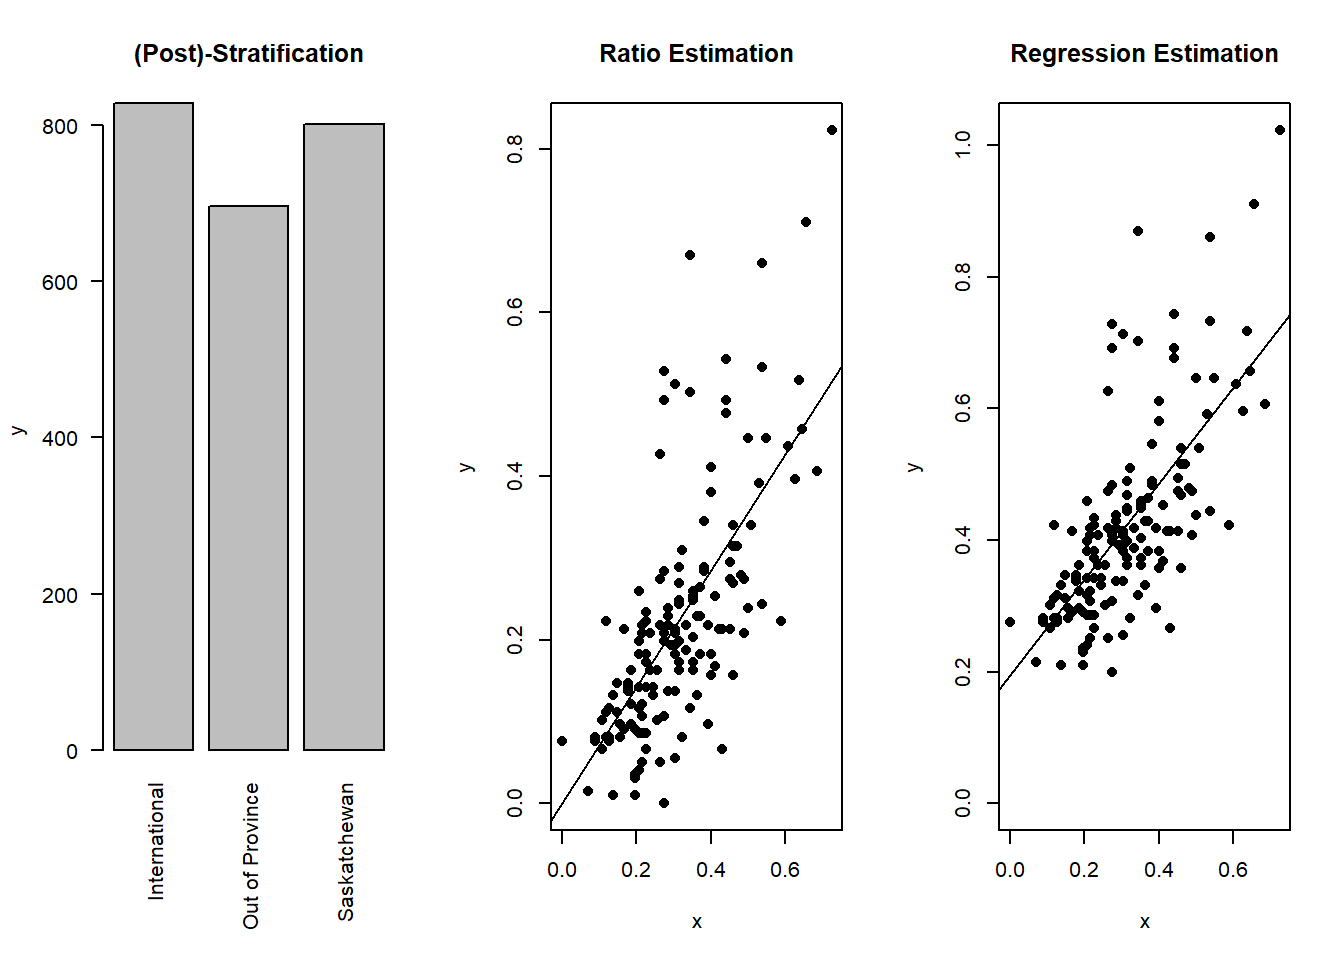
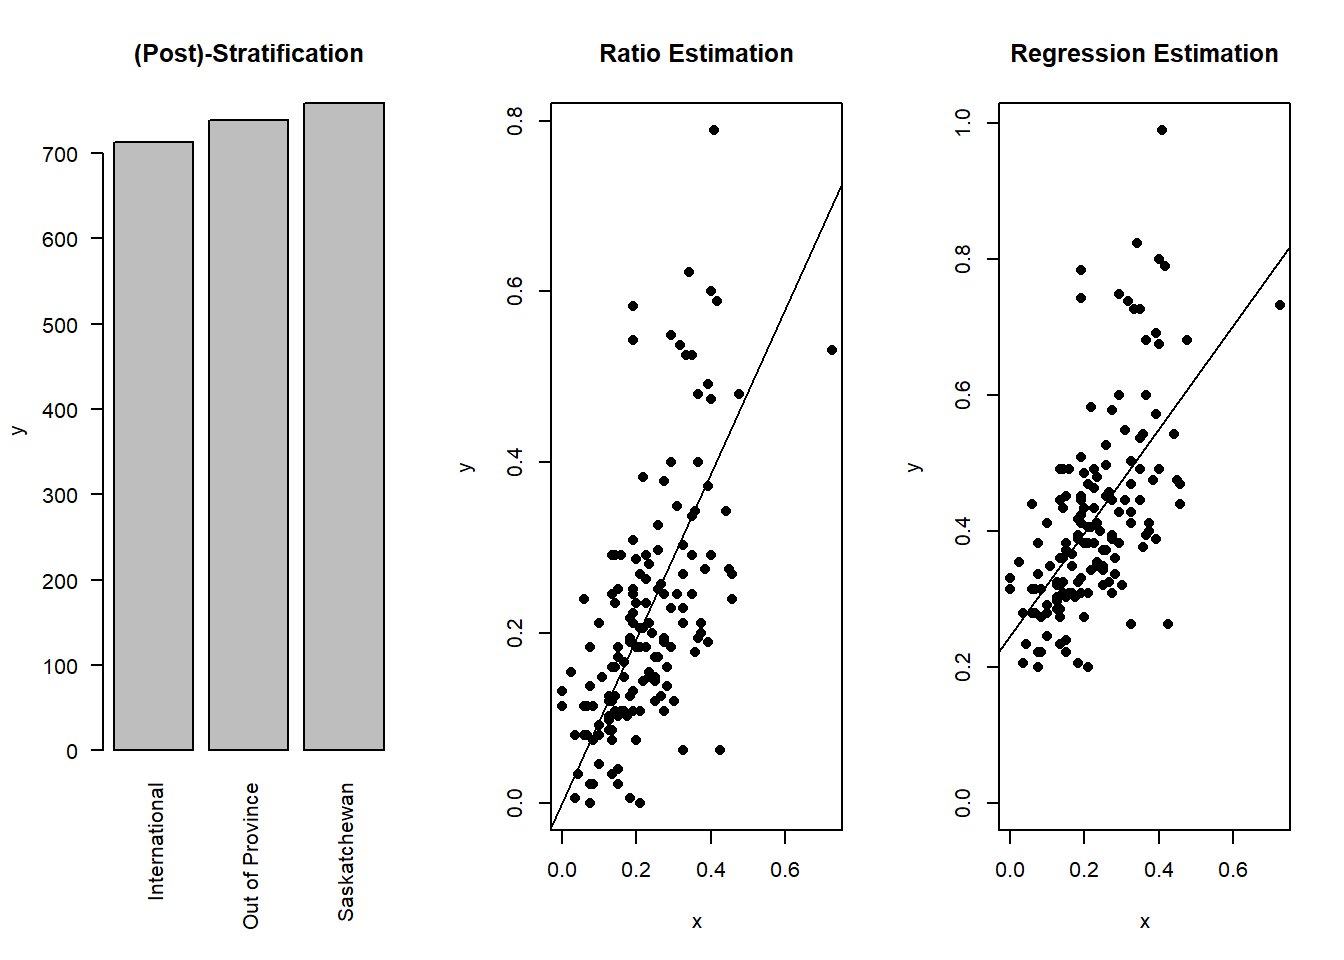
minor update

diff --git a/chap-rr.html b/chap-rr.html
@@ -22,7 +22,7 @@
 
 
 
-<meta name="date" content="2026-04-23" />
+<meta name="date" content="2026-05-12" />
 
   <meta name="viewport" content="width=device-width, initial-scale=1" />
   <meta name="apple-mobile-web-app-capable" content="yes" />
@@ -1212,10 +1212,10 @@ As expected, we achieve a whooping amount of 97.0795% gain in efficiency by usin
 ##     design = design.srs)
 ## Ratios=
 ##          area
-## rent 26.30597
+## rent 24.97163
 ## SEs=
-##          area
-## rent 0.577119</code></pre>
+##           area
+## rent 0.5517693</code></pre>
 <p>We can obtain <span class="math inline">\(\widehat{T}_r\)</span> using the following code</p>
 <div class="sourceCode" id="cb28"><pre class="sourceCode r"><code class="sourceCode r"><span id="cb28-1"><a href="chap-rr.html#cb28-1" tabindex="-1"></a><span class="co">#suppose we know the population total t_{U,x}</span></span>
 <span id="cb28-2"><a href="chap-rr.html#cb28-2" tabindex="-1"></a>known.x.total <span class="ot">&lt;-</span> <span class="fu">sum</span>(dat<span class="sc">$</span>area)</span>
@@ -1224,11 +1224,11 @@ As expected, we achieve a whooping amount of 97.0795% gain in efficiency by usin
 <span id="cb28-5"><a href="chap-rr.html#cb28-5" tabindex="-1"></a><span class="fu">predict</span>(srs.ratio,<span class="at">total=</span>known.x.total)</span></code></pre></div>
 <pre><code>## $total
 ##          area
-## rent 21380279
+## rent 20295789
 ## 
 ## $se
 ##          area
-## rent 469055.7</code></pre>
+## rent 448452.7</code></pre>
 </div>
 </div>
 <div id="post-stratification" class="section level2 hasAnchor" number="4.3">
@@ -1337,12 +1337,12 @@ Figure 4.3: Post-stratification to adjust sample so that it represents the popul
 <span id="cb30-8"><a href="chap-rr.html#cb30-8" tabindex="-1"></a></span>
 <span id="cb30-9"><a href="chap-rr.html#cb30-9" tabindex="-1"></a><span class="co">#use the new survey design to estimate mean</span></span>
 <span id="cb30-10"><a href="chap-rr.html#cb30-10" tabindex="-1"></a><span class="fu">svymean</span>(<span class="sc">~</span>rent, design.post)</span></code></pre></div>
-<pre><code>##        mean    SE
-## rent 780.54 22.24</code></pre>
+<pre><code>##        mean     SE
+## rent 749.46 21.598</code></pre>
 <div class="sourceCode" id="cb32"><pre class="sourceCode r"><code class="sourceCode r"><span id="cb32-1"><a href="chap-rr.html#cb32-1" tabindex="-1"></a><span class="co">#use the new survey design to estimate total</span></span>
 <span id="cb32-2"><a href="chap-rr.html#cb32-2" tabindex="-1"></a><span class="fu">svytotal</span>(<span class="sc">~</span>rent, design.post)</span></code></pre></div>
 <pre><code>##         total     SE
-## rent 20799768 592642</code></pre>
+## rent 19971556 575542</code></pre>
 </div>
 <div id="calibration-and-raking" class="section level3 hasAnchor" number="4.3.3">
 <h3><span class="header-section-number">4.3.3</span> Calibration and Raking<a href="chap-rr.html#calibration-and-raking" class="anchor-section" aria-label="Anchor link to header"></a></h3>
@@ -1401,7 +1401,7 @@ Therefore, these adjusted weights can be called the reproducing weights.</p>
 <span id="cb34-27"><a href="chap-rr.html#cb34-27" tabindex="-1"></a><span class="co">#estimate the mean using the adjusted weights</span></span>
 <span id="cb34-28"><a href="chap-rr.html#cb34-28" tabindex="-1"></a><span class="fu">svymean</span>(<span class="sc">~</span>rent, design.cal)</span></code></pre></div>
 <pre><code>##        mean     SE
-## rent 776.69 21.607</code></pre>
+## rent 748.65 21.338</code></pre>
 <p><strong><ins>Raking:</ins></strong></p>
 <div class="sourceCode" id="cb36"><pre class="sourceCode r"><code class="sourceCode r"><span id="cb36-1"><a href="chap-rr.html#cb36-1" tabindex="-1"></a><span class="co">#get the population count for study</span></span>
 <span id="cb36-2"><a href="chap-rr.html#cb36-2" tabindex="-1"></a>Nh_study <span class="ot">&lt;-</span> <span class="fu">table</span>(<span class="at">study =</span> dat<span class="sc">$</span>study)</span>
@@ -1417,7 +1417,7 @@ Therefore, these adjusted weights can be called the reproducing weights.</p>
 <span id="cb36-12"><a href="chap-rr.html#cb36-12" tabindex="-1"></a><span class="co">#estimate the mean using the adjusted weights</span></span>
 <span id="cb36-13"><a href="chap-rr.html#cb36-13" tabindex="-1"></a><span class="fu">svymean</span>(<span class="sc">~</span>rent, design.rak)</span></code></pre></div>
 <pre><code>##        mean     SE
-## rent 776.69 21.607</code></pre>
+## rent 748.65 21.338</code></pre>
 <p>We can see that the results by <code>calibrate()</code> (with default settings) are practically the same as the results by <code>rake()</code>. In general, <code>calibrate()</code> is <strong>more general with more flexible options</strong>.</p>
 </div>
 </div>
@@ -1714,7 +1714,7 @@ S_{S,e}^2 = \frac{1}{n-1}\sum_{i\in S} e_i^2.
 <span id="cb38-8"><a href="chap-rr.html#cb38-8" tabindex="-1"></a><span class="fu">predict</span>(srs.reg, <span class="at">newdata =</span> <span class="fu">data.frame</span>(<span class="at">area =</span> known.x.mean),</span>
 <span id="cb38-9"><a href="chap-rr.html#cb38-9" tabindex="-1"></a>        <span class="at">type =</span> <span class="st">&quot;response&quot;</span>)</span></code></pre></div>
 <pre><code>##   response     SE
-## 1   803.21 17.914</code></pre>
+## 1   760.12 17.164</code></pre>
 <p>In R, we can also use more than 1 variable to do the regression prediction. Suppose I also want to use the indicator variable <code>washroom</code>, together with <code>area</code> to predict <code>rent</code>:</p>
 <div class="sourceCode" id="cb40"><pre class="sourceCode r"><code class="sourceCode r"><span id="cb40-1"><a href="chap-rr.html#cb40-1" tabindex="-1"></a><span class="co">#estimate/fit the regression</span></span>
 <span id="cb40-2"><a href="chap-rr.html#cb40-2" tabindex="-1"></a>srs.reg2 <span class="ot">&lt;-</span> <span class="fu">svyglm</span>(rent<span class="sc">~</span>area<span class="sc">+</span>washroom, <span class="at">design =</span> design.srs)</span>
@@ -1728,8 +1728,8 @@ S_{S,e}^2 = \frac{1}{n-1}\sum_{i\in S} e_i^2.
 <span id="cb40-10"><a href="chap-rr.html#cb40-10" tabindex="-1"></a>        <span class="at">newdata =</span> <span class="fu">data.frame</span>(<span class="at">area =</span> known.x1.mean, </span>
 <span id="cb40-11"><a href="chap-rr.html#cb40-11" tabindex="-1"></a>                             <span class="at">washroom =</span> known.x2.mean),</span>
 <span id="cb40-12"><a href="chap-rr.html#cb40-12" tabindex="-1"></a>        <span class="at">type =</span> <span class="st">&quot;response&quot;</span>)</span></code></pre></div>
-<pre><code>##   response     SE
-## 1   798.04 16.074</code></pre>
+<pre><code>##   response    SE
+## 1   764.35 15.87</code></pre>
 </div>
 <div id="greg-estimator" class="section level3 hasAnchor" number="4.4.5">
 <h3><span class="header-section-number">4.4.5</span> GREG Estimator<a href="chap-rr.html#greg-estimator" class="anchor-section" aria-label="Anchor link to header"></a></h3>

diff --git a/chap-strt.html b/chap-strt.html
@@ -22,7 +22,7 @@
 
 
 
-<meta name="date" content="2026-04-23" />
+<meta name="date" content="2026-05-12" />
 
   <meta name="viewport" content="width=device-width, initial-scale=1" />
   <meta name="apple-mobile-web-app-capable" content="yes" />
@@ -941,12 +941,12 @@ In other words, in Equations <a href="chap-strt.html#eq:strt-var">(3.4)</a> and 
 <span id="cb18-18"><a href="chap-strt.html#cb18-18" tabindex="-1"></a></span>
 <span id="cb18-19"><a href="chap-strt.html#cb18-19" tabindex="-1"></a><span class="co">#estimating population mean</span></span>
 <span id="cb18-20"><a href="chap-strt.html#cb18-20" tabindex="-1"></a><span class="fu">svymean</span>(<span class="sc">~</span>rent, design.strt)</span></code></pre></div>
-<pre><code>##       mean     SE
-## rent 717.2 32.674</code></pre>
+<pre><code>##        mean     SE
+## rent 788.32 52.814</code></pre>
 <div class="sourceCode" id="cb20"><pre class="sourceCode r"><code class="sourceCode r"><span id="cb20-1"><a href="chap-strt.html#cb20-1" tabindex="-1"></a><span class="co">#getting confidence interval</span></span>
 <span id="cb20-2"><a href="chap-strt.html#cb20-2" tabindex="-1"></a><span class="fu">confint</span>(<span class="fu">svymean</span>(<span class="sc">~</span>rent, design.strt))</span></code></pre></div>
 <pre><code>##         2.5 %   97.5 %
-## rent 653.1642 781.2432</code></pre>
+## rent 684.8065 891.8318</code></pre>
 </div>
 </div>
 <div id="design" class="section level2 hasAnchor" number="3.3">

diff --git a/index.html b/index.html
@@ -22,7 +22,7 @@
 
 
 
-<meta name="date" content="2026-04-23" />
+<meta name="date" content="2026-05-12" />
 
   <meta name="viewport" content="width=device-width, initial-scale=1" />
   <meta name="apple-mobile-web-app-capable" content="yes" />
@@ -463,13 +463,13 @@ div.csl-indent {
 <div id="header">
 <h1 class="title">A Concise Introduction to Survey Sampling</h1>
 <p class="author"><em><div class="line-block"><strong>Trang Bui</strong></div></em></p>
-<p class="date"><em>2026-04-23</em></p>
+<p class="date"><em>2026-05-12</em></p>
 </div>
 <div id="preface" class="section level1 unnumbered hasAnchor">
 <h1>Preface<a href="index.html#preface" class="anchor-section" aria-label="Anchor link to header"></a></h1>
 <p>Survey sampling is one of the fundamental subjects in statistics. Survey statisticians have early dealt with problems such as nonresponse, unrepresentative samples, selection bias, etc. such that the tools they developed for these problems have inspired many methods in missing data, causal inference, and even machine learning.</p>
 <p>This book aims provide a concise, easy-to-understand introduction to basic sampling principles and techniques and their corresponding inference methods. Although the book can be quite simple without advanced topics such as nonresponse, small area estimation, and selection bias correction, I hope it will still inspire you to appreciate the development of survey sampling theories and go further to incorporate survey sampling techniques into your research.</p>
-<p><strong>Disclaimer &amp; Acknowledgement</strong>: This book roughly follows the structure of and contains discussions from <span class="citation">Lohr (<a href="references.html#ref-lohr2021sampling">2021</a>)</span>. Some sections of this book also share similar narratives with another <a href="https://tqtbui.github.io/introbook/index.html">book</a> of mine. Last but not least, some examples are taken from the lecture notes of my colleague <a href="https://artsandscience.usask.ca/profile/SKhan">Shahedul Khan</a> for the course STAT348: Sampling Techniques at the University of Saskatchewan.</p>
+<p><strong>Disclaimer &amp; Acknowledgement</strong>: This book roughly follows some structure of and contains some discussions from <span class="citation">Lohr (<a href="references.html#ref-lohr2021sampling">2021</a>)</span>. Some sections of this book also share similar narratives with another <a href="https://tqtbui.github.io/introbook/index.html">book</a> of mine. Last but not least, some examples are taken from the lecture notes of my colleague <a href="https://artsandscience.usask.ca/profile/SKhan">Shahedul Khan</a> for the course STAT348: Sampling Techniques at the University of Saskatchewan.</p>
 
 </div>
 

diff --git a/chap-srs.html b/chap-srs.html
@@ -22,7 +22,7 @@
 
 
 
-<meta name="date" content="2026-04-23" />
+<meta name="date" content="2026-05-12" />
 
   <meta name="viewport" content="width=device-width, initial-scale=1" />
   <meta name="apple-mobile-web-app-capable" content="yes" />
@@ -1577,7 +1577,7 @@ Figure 2.2: Visual illustration of interval-based SRS technique
 <div class="sourceCode" id="cb3"><pre class="sourceCode r"><code class="sourceCode r"><span id="cb3-1"><a href="chap-srs.html#cb3-1" tabindex="-1"></a><span class="fu">sample</span>(<span class="dv">1</span><span class="sc">:</span>N, <span class="at">size =</span> n, <span class="at">replace =</span> <span class="cn">FALSE</span>) <span class="co">#where N and n are numbers from your survey design </span></span></code></pre></div>
 <p>For example, in Example <a href="chap-srs.html#exm:ex-srs-systematic">2.14</a>, instead of systematic sampling, we can use <strong>R</strong></p>
 <div class="sourceCode" id="cb4"><pre class="sourceCode r"><code class="sourceCode r"><span id="cb4-1"><a href="chap-srs.html#cb4-1" tabindex="-1"></a><span class="fu">sample</span>(<span class="dv">1</span><span class="sc">:</span><span class="dv">30</span>, <span class="at">size =</span> <span class="dv">4</span>, <span class="at">replace =</span> <span class="cn">FALSE</span>)</span></code></pre></div>
-<pre><code>## [1]  8  1 19 26</code></pre>
+<pre><code>## [1] 25  4  7  1</code></pre>
 </div>
 </div>
 <div id="variance" class="section level2 hasAnchor" number="2.7">

diff --git a/404.html b/404.html
@@ -22,7 +22,7 @@
 
 
 
-<meta name="date" content="2026-04-23" />
+<meta name="date" content="2026-05-12" />
 
   <meta name="viewport" content="width=device-width, initial-scale=1" />
   <meta name="apple-mobile-web-app-capable" content="yes" />

diff --git a/app-dataset.html b/app-dataset.html
@@ -22,7 +22,7 @@
 
 
 
-<meta name="date" content="2026-04-23" />
+<meta name="date" content="2026-05-12" />
 
   <meta name="viewport" content="width=device-width, initial-scale=1" />
   <meta name="apple-mobile-web-app-capable" content="yes" />

diff --git a/app-summaries.html b/app-summaries.html
@@ -22,7 +22,7 @@
 
 
 
-<meta name="date" content="2026-04-23" />
+<meta name="date" content="2026-05-12" />
 
   <meta name="viewport" content="width=device-width, initial-scale=1" />
   <meta name="apple-mobile-web-app-capable" content="yes" />

diff --git a/chap-clus.html b/chap-clus.html
@@ -22,7 +22,7 @@
 
 
 
-<meta name="date" content="2026-04-23" />
+<meta name="date" content="2026-05-12" />
 
   <meta name="viewport" content="width=device-width, initial-scale=1" />
   <meta name="apple-mobile-web-app-capable" content="yes" />

diff --git a/chap-intro.html b/chap-intro.html
@@ -22,7 +22,7 @@
 
 
 
-<meta name="date" content="2026-04-23" />
+<meta name="date" content="2026-05-12" />
 
   <meta name="viewport" content="width=device-width, initial-scale=1" />
   <meta name="apple-mobile-web-app-capable" content="yes" />

diff --git a/chap-others.html b/chap-others.html
@@ -22,7 +22,7 @@
 
 
 
-<meta name="date" content="2026-04-23" />
+<meta name="date" content="2026-05-12" />
 
   <meta name="viewport" content="width=device-width, initial-scale=1" />
   <meta name="apple-mobile-web-app-capable" content="yes" />

diff --git a/references.html b/references.html
@@ -22,7 +22,7 @@
 
 
 
-<meta name="date" content="2026-04-23" />
+<meta name="date" content="2026-05-12" />
 
   <meta name="viewport" content="width=device-width, initial-scale=1" />
   <meta name="apple-mobile-web-app-capable" content="yes" />